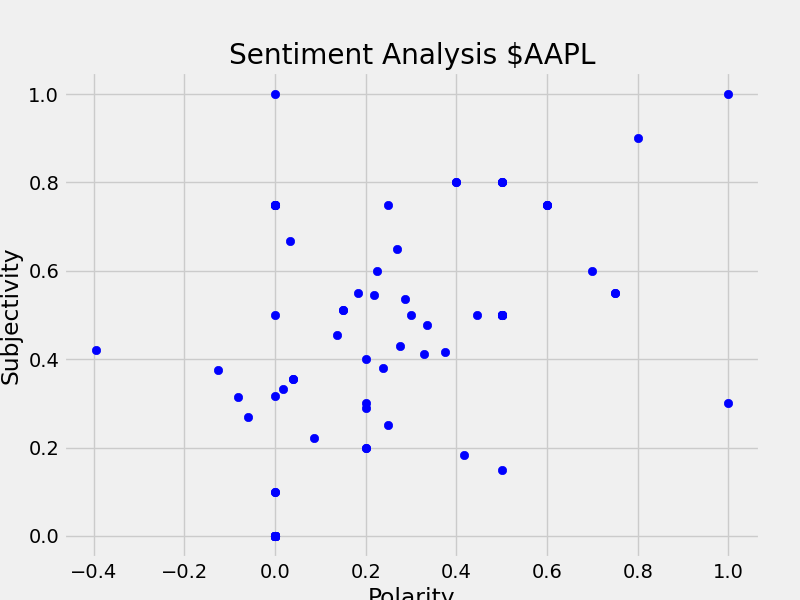
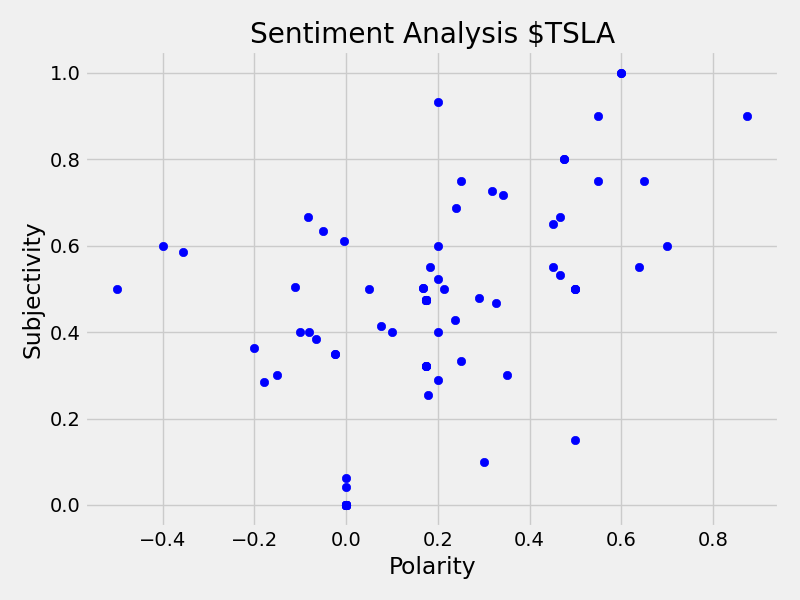
Fix error where figures get cutoff

diff --git a/TwitterStockSentimentAnalyzer/TwitterAnalyzer.py b/TwitterStockSentimentAnalyzer/TwitterAnalyzer.py
@@ -104,6 +104,7 @@ class TwitterAnalyzer:
         plt.title('Sentiment Analysis '+ ticker)
         plt.xlabel('Polarity')
         plt.ylabel('Subjectivity')
+        plt.tight_layout()
         plt.savefig(imagedir)
 
     def getBarGraph(self,df,ticker):
@@ -115,6 +116,7 @@ class TwitterAnalyzer:
         plt.xlabel('Sentiment')
         plt.ylabel('Counts')
         df['Analysis'].value_counts().plot(kind='bar')
+        plt.tight_layout()
         plt.savefig(imagedir)
         
 
